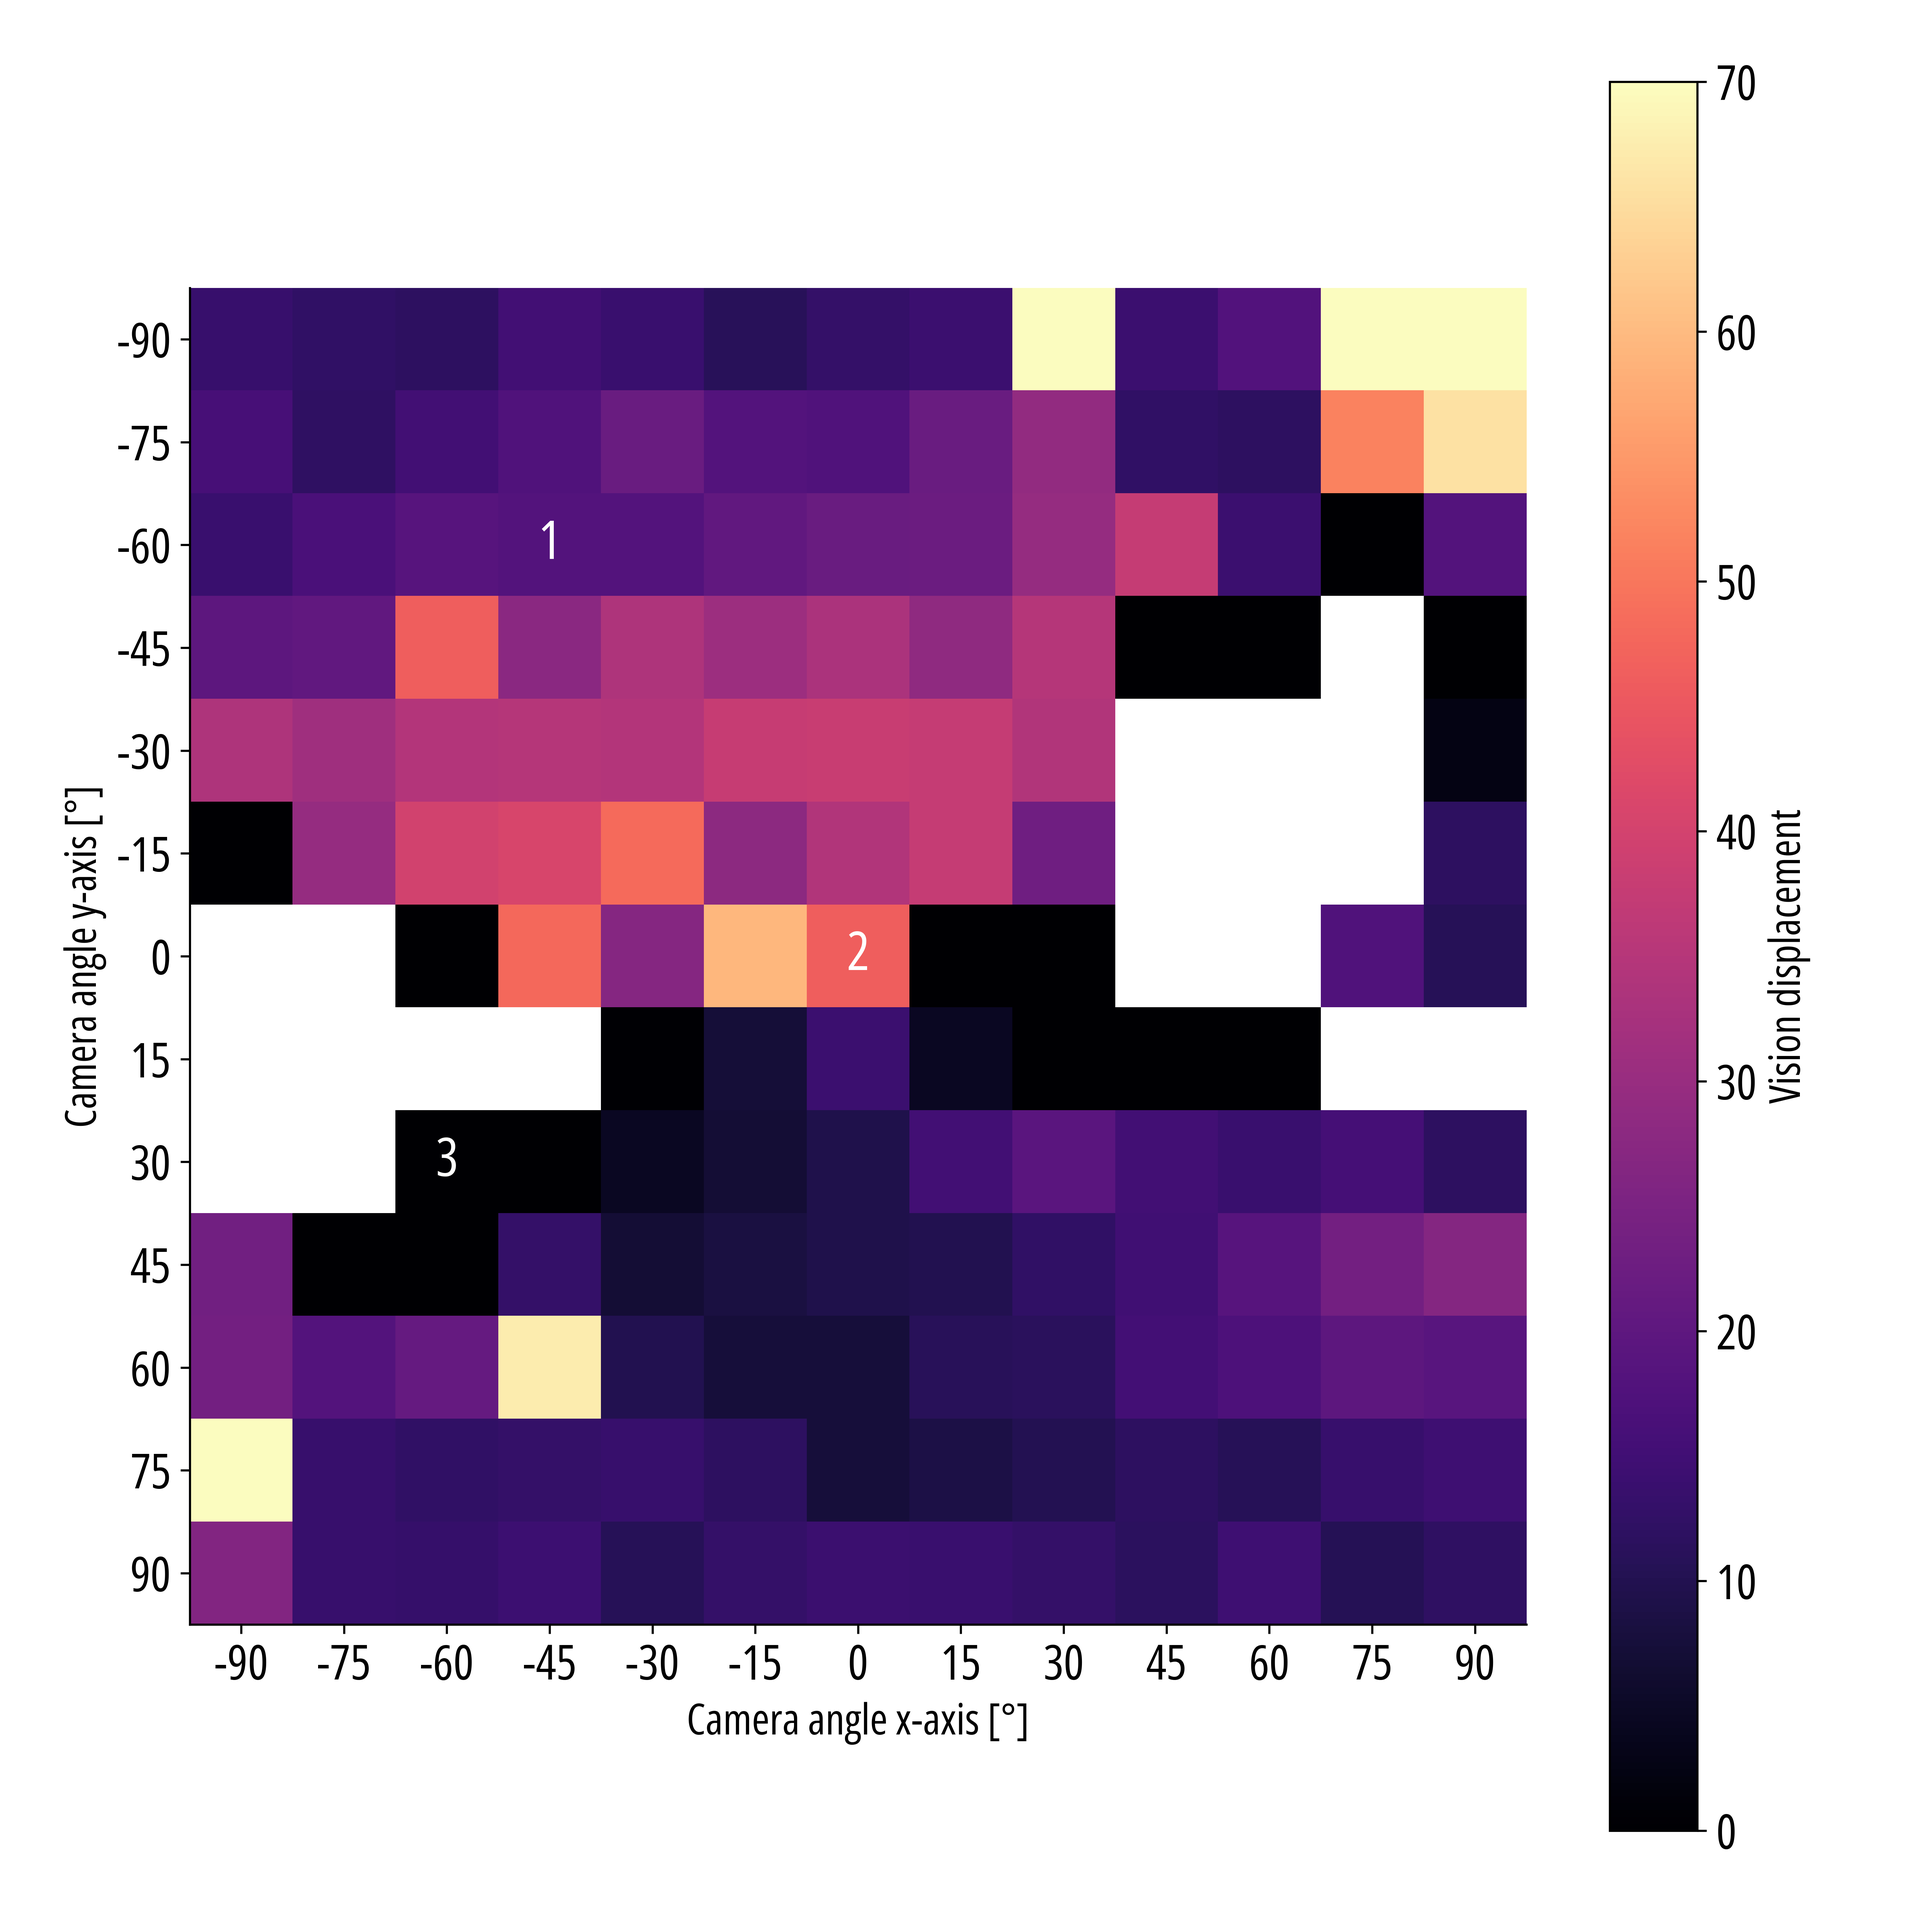
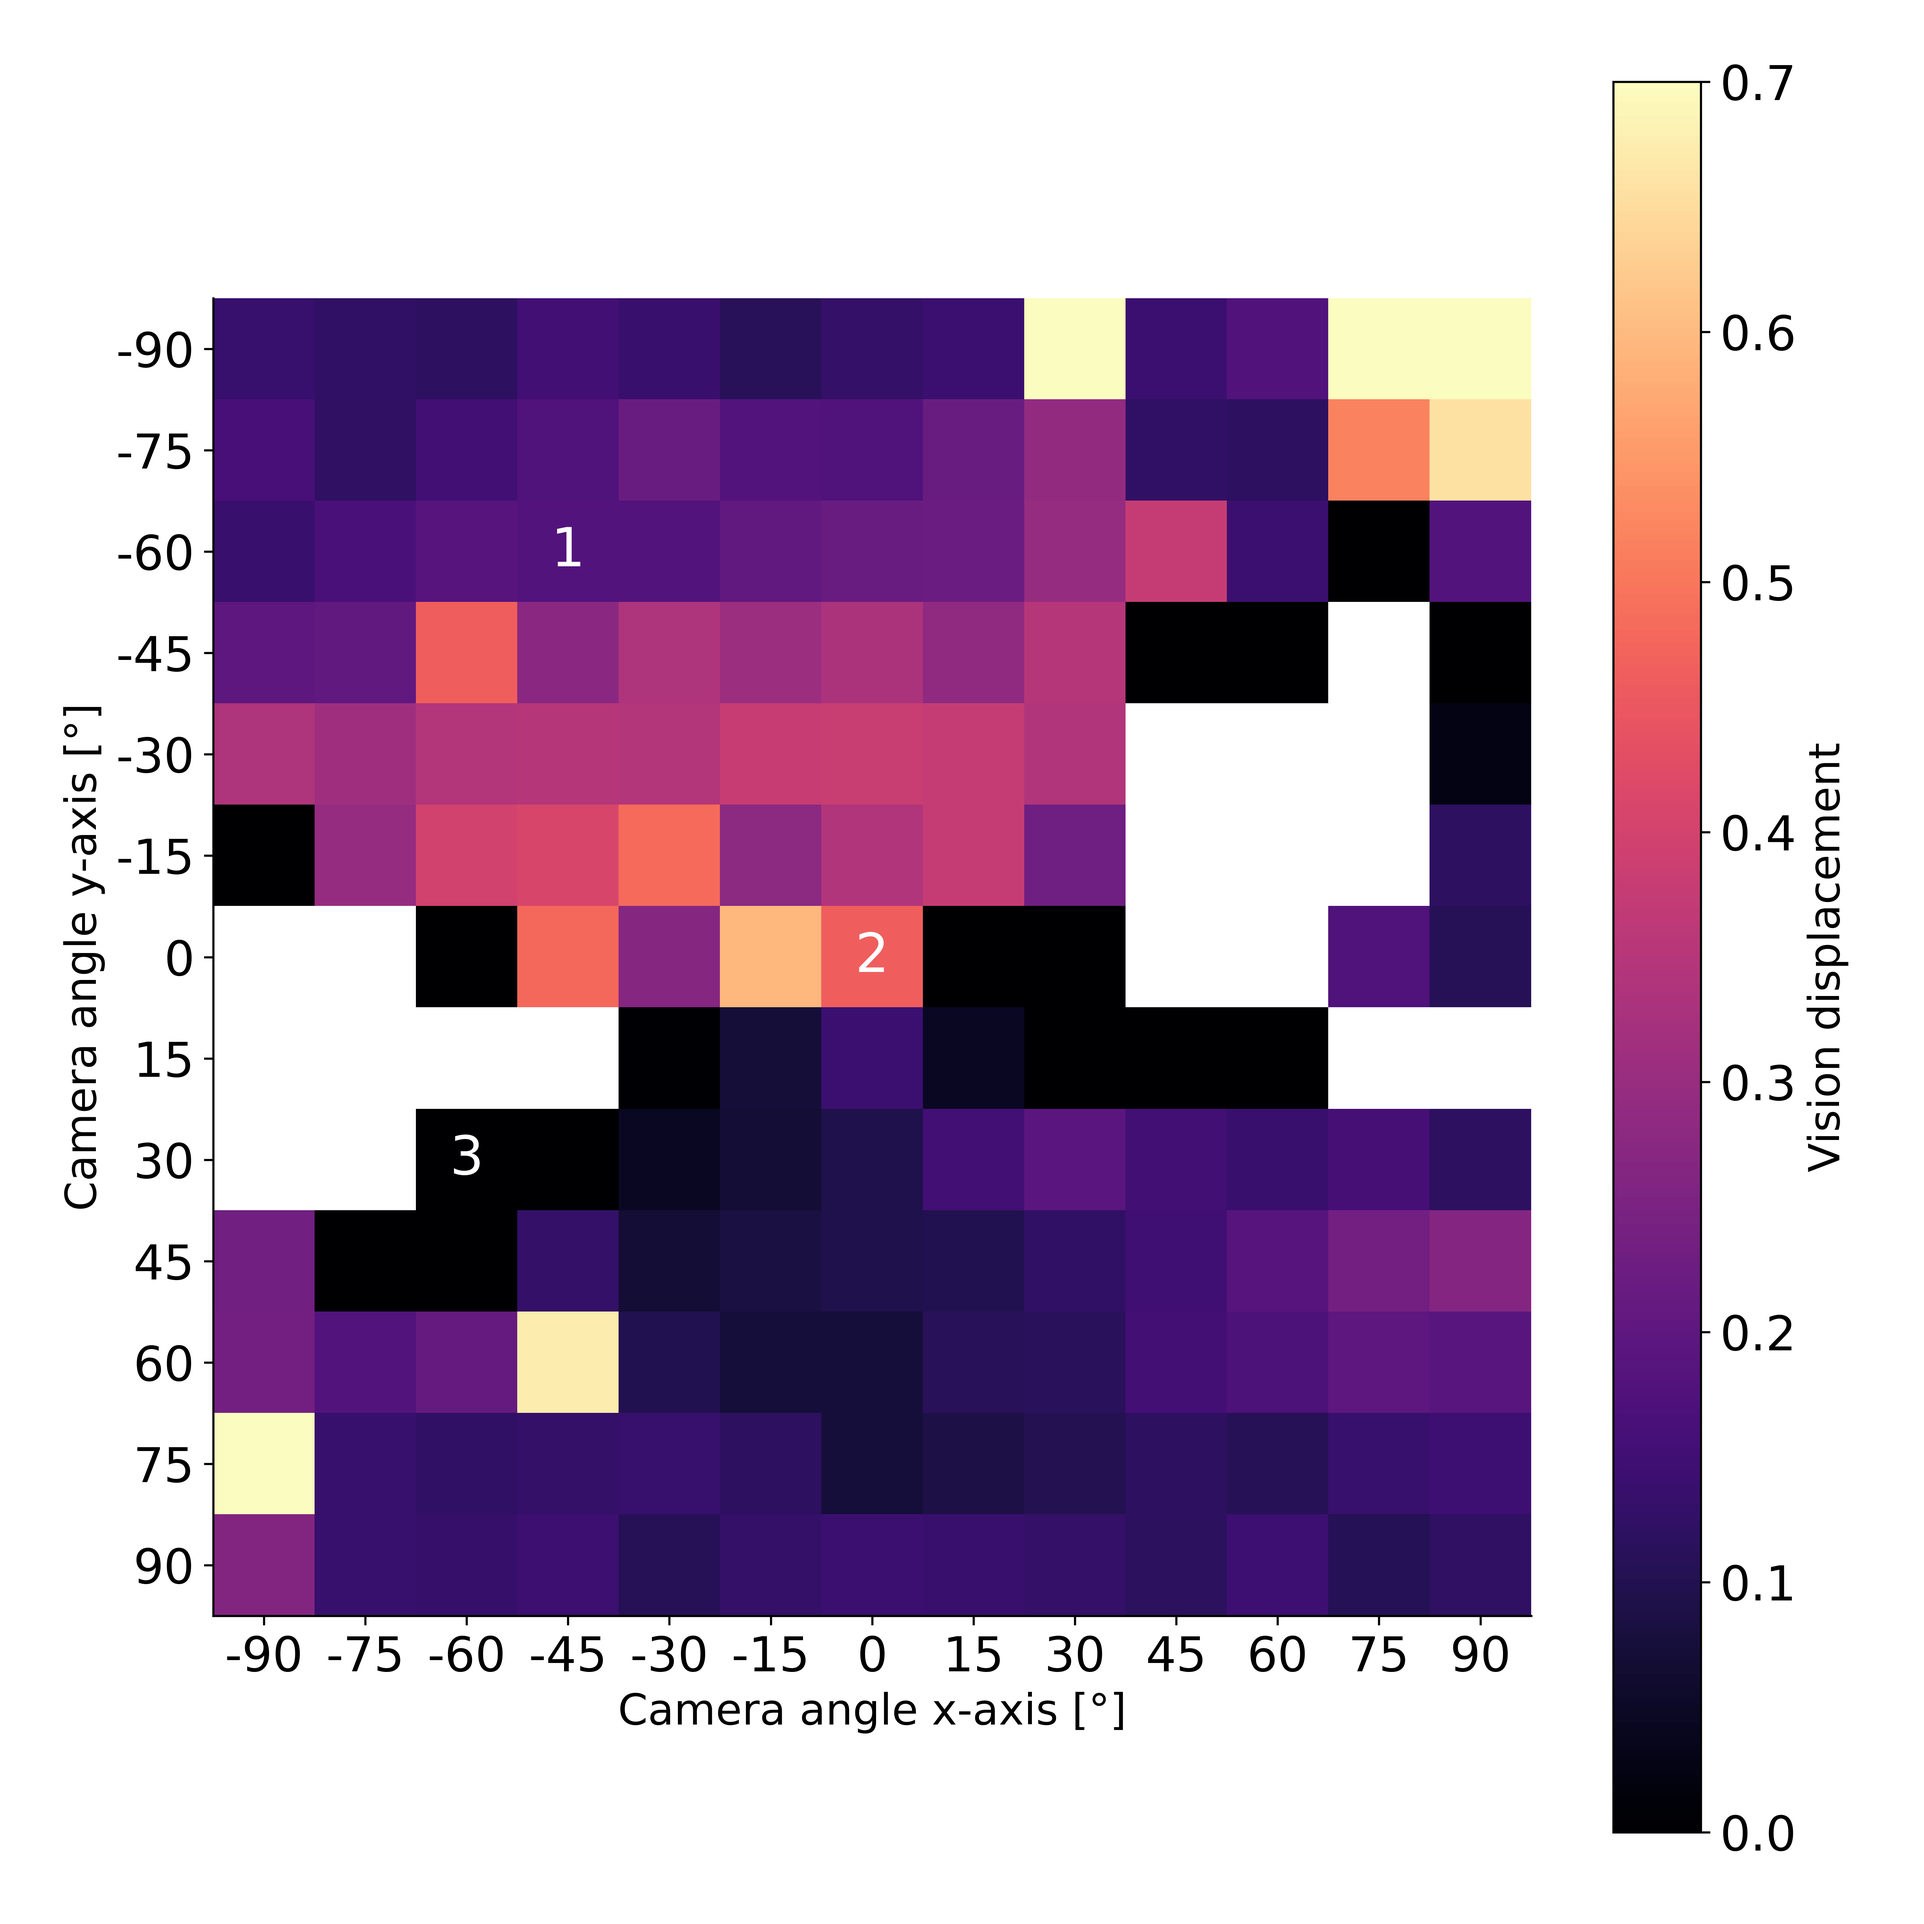
adapt figures for review

diff --git a/scripts/fig2_model_amp_lin_increase.py b/scripts/fig2_model_amp_lin_increase.py
@@ -115,29 +115,35 @@ plt.show()
 srate=30
 
 
-fig, ax = plt.subplots(10, 1, figsize=(20, 15), sharex=True)
-ax[0].plot(times_mp,zscore(mp_world_amp_sum),color=colors_cvmodels["MPworld"],label="MP world")
-ax[0].set_ylim(-3,3)
+fig, ax = plt.subplots(10, 1, figsize=(20, 25), sharex=True)
+ax[0].plot(times_mp, zscore(mp_world_amp_sum), color=colors_cvmodels["MPworld"], label="MP world", linewidth=2)
+ax[0].set_ylim(-3, 3)
+ax[0].set_ylabel("Amplitude (z-scored)")
 ax[0].legend()
-plot_normalized_spectrogram(mp_world_amp_sum,srate,ax[1],"MP world")
-ax[2].plot(times_mp,zscore(mp_world_amp_sum_z),color=colors_cvmodels["MPworld_z"],label="MP world (with z axis)")
-ax[2].set_ylim(-3,3)
+plot_normalized_spectrogram(mp_world_amp_sum, srate, ax[1], "MP world")
+ax[2].plot(times_mp, zscore(mp_world_amp_sum_z), color=colors_cvmodels["MPworld_z"], label="MP world (with z axis)", linewidth=2)
+ax[2].set_ylim(-3, 3)
+ax[2].set_ylabel("Amplitude (z-scored)")
 ax[2].legend()
-plot_normalized_spectrogram(mp_world_amp_sum_z,srate,ax[3],"MP world (z-axis)")
-ax[4].plot(times_mp,zscore(mp_norm_amp_sum),color=colors_cvmodels["MPnorm"],label="MP norm")
-ax[4].set_ylim(-3,3)
+plot_normalized_spectrogram(mp_world_amp_sum_z, srate, ax[3], "MP world (z-axis)")
+ax[4].plot(times_mp, zscore(mp_norm_amp_sum), color=colors_cvmodels["MPnorm"], label="MP norm", linewidth=2)
+ax[4].set_ylim(-3, 3)
+ax[4].set_ylabel("Amplitude (z-scored)")
 ax[4].legend()
-plot_normalized_spectrogram(mp_norm_amp_sum,srate,ax[5],"MP norm")
-ax[6].plot(times_mp,zscore(mp_norm_amp_sum_z),color=colors_cvmodels["MPnorm_z"],label="MP norm (with z axis)")
-ax[6].set_ylim(-3,3)
+plot_normalized_spectrogram(mp_norm_amp_sum, srate, ax[5], "MP norm")
+ax[6].plot(times_mp, zscore(mp_norm_amp_sum_z), color=colors_cvmodels["MPnorm_z"], label="MP norm (with z axis)", linewidth=2)
+ax[6].set_ylim(-3, 3)
+ax[6].set_ylabel("Amplitude (z-scored)")
 ax[6].legend()
-plot_normalized_spectrogram(mp_norm_amp_sum_z,srate,ax[7],"MP norm (z-axis)")
-ax[8].plot(times_mp,zscore(vi_amp_sum),color=colors_cvmodels["Apple_VI"],label="Vision")
-ax[8].set_ylim(-3,3)
+plot_normalized_spectrogram(mp_norm_amp_sum_z, srate, ax[7], "MP norm (z-axis)")
+ax[8].plot(times_mp, zscore(vi_amp_sum), color=colors_cvmodels["Apple_VI"], label="Vision", linewidth=2)
+ax[8].set_ylim(-3, 3)
+ax[8].set_ylabel("Amplitude (z-scored)")
 ax[8].legend()
-plot_normalized_spectrogram(vi_amp_sum,srate,ax[9],"Vision")
+plot_normalized_spectrogram(vi_amp_sum, srate, ax[9], "Vision")
 plt.xlabel('Time [sec]')
 plt.tight_layout()
+plt.xlim(0, 5)
 # save the plot
 plt.savefig(dir_figures.joinpath("freq_over_frames_alternative.png"), dpi=600)
 plt.show()

diff --git a/scripts/fig1_amp_angles.py b/scripts/fig1_amp_angles.py
@@ -138,7 +138,7 @@ for i in range(n_angles_total):
 displacement_per_angle = np.reshape(displament_per_angle, (n_angles_side, n_angles_side))
 
 fig, axs = plt.subplots(figsize=(10,10))
-image = axs.imshow((displacement_per_angle), cmap='magma')
+image = axs.imshow((displacement_per_angle/100), cmap='magma') #divide by 100 to make it comparable to MP output
 
 # Set the x-axis tick labels
 axs.set_xticks(np.arange(len(angles)))
@@ -156,7 +156,7 @@ axs.text(2, 8, '3', ha='center', va='center', color='white', fontsize=20)
 
 # Add color bar
 cbar = fig.colorbar(image)
-image.set_clim(0, 70) ## set lim to avoid noise at the edges.
+image.set_clim(0, 0.7) ## set lim to avoid noise at the edges.
 
 # Set the color bar label
 cbar.set_label('Vision displacement')
